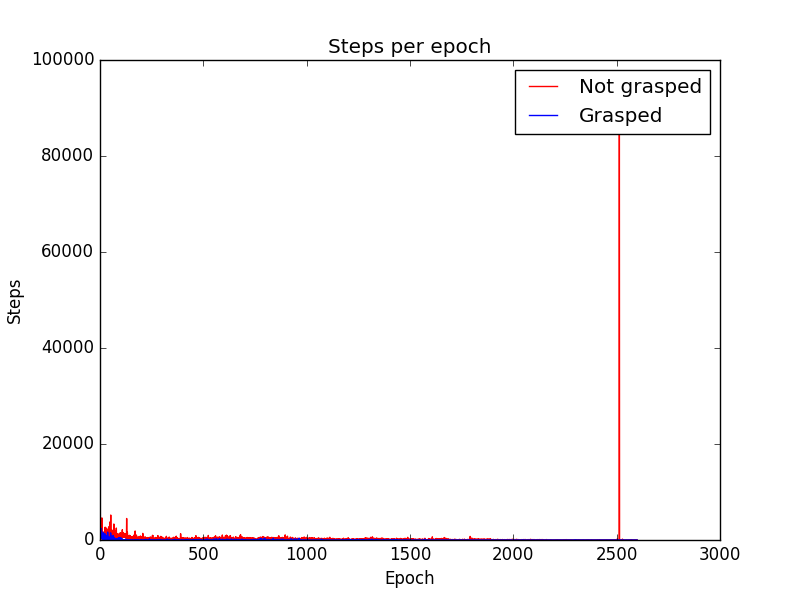
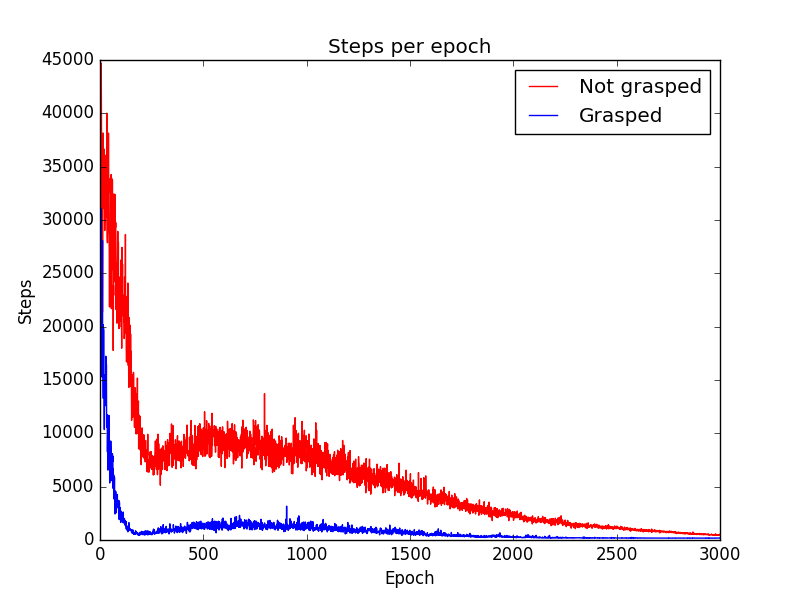
Convergence measurement (needs testing)

Changed region(s): [[0.0, 0.18, 0.9062, 0.9], [0.0312, 0.09, 0.125, 0.12]]

diff --git a/Simulation/main.py b/Simulation/main.py
@@ -6,6 +6,7 @@ import numpy as np
 import matplotlib.pyplot as plt
 import math
 import statistics
+import csv
 
 
 def updateWorld(agents, world, steps, epoch):
@@ -45,8 +46,6 @@ if __name__ == "__main__":
 
     # Some parameters
     epsilon = 0.9
-    startTau = 0.99
-    tau = startTau
     alpha = 0.1
     gamma = 0.9
 
@@ -68,33 +67,37 @@ if __name__ == "__main__":
         start = [(0, 0), (3, 3)]
         numberOfAgents = len(start)
 
-    # Create the agents
-    agents = [ag.Agent(start[i], rows, columns)
-              for i in range(numberOfAgents)]
-
     # Create the world and everything in it
     world = w.World(rows, columns, goals, walls, block, start)
     world.add_objects()
 
     # Simulation settings
-    runs = 1
-    trainingSteps = 200
-    testSteps = 100
+    runs = 25
+    trainingSteps = 3000
+    testSteps = 1
     epochs = trainingSteps + testSteps
 
-    steps = np.zeros((2, epochs))
     convergence = np.zeros((2, runs))
-    stdev = np.zeros((2, epochs))
-    testResults = np.zeros((2, testSteps))
 
     for run in range(runs):
         print(run)
-        for agent in agents:
-            agent.resetQ(world)
+
+        # Create the agents
+        agents = [ag.Agent(start[i], rows, columns)
+                  for i in range(numberOfAgents)]
+
+        stdev = np.zeros((2, epochs))
+        testResults = np.zeros((2, testSteps))
+        steps = np.zeros((2, epochs))
+
+        startTau = 0.99
+        tau = startTau
+        #for agent in agents:
+        #    agent.resetQ(world)
         for epoch in range(epochs):
             if epoch == 0:
                 print("Training phase")
-            if (epoch % 20 == 0):
+            if (epoch % 500 == 0):
                 print(epoch)
             if epoch == trainingSteps:
                 print("Testing phase")
@@ -136,7 +139,7 @@ if __name__ == "__main__":
 
                 # At convergence of std, store the epoch of convergence
                 if environment == "complex":
-                    if stdev[0][epoch] < 5 and convergence[0][run] == 0:
+                    if stdev[0][epoch] < 7 and convergence[0][run] == 0:
                         convergence[0][run] = epoch
                     if stdev[1][epoch] < 2 and convergence[1][run] == 0:
                         convergence[1][run] = epoch
@@ -145,8 +148,11 @@ if __name__ == "__main__":
         print("Agent: ", index)
         agent.print_policy(world)
 
-    print("Convergence at not grabbed:", convergence[0])
-    print("Convergence grabbed:", convergence[1])
+
+    with open("Convergence.csv", "w") as conv:
+        writer = csv.writer(conv, delimiter = '\t')
+        writer.writerow(["Not_grabbed\tGrabbed"])
+        writer.writerows(list(zip(convergence[0],convergence[1])))
 
     plt.figure(1)
     plt.plot(range(epochs), stdev[0], 'r-', range(epochs), stdev[1], 'b-')
@@ -155,7 +161,6 @@ if __name__ == "__main__":
     plt.ylabel('Standard deviation')
     plt.legend(['Not grasped', 'Grasped'])
     plt.draw()
-    plt.show()
     plt.savefig('Stdev.png')
 
     plt.figure(2)
@@ -213,3 +218,13 @@ if __name__ == "__main__":
     plt.legend(['Not grasped', 'Grasped'])
     plt.draw()
     plt.savefig('SingleQTest_smoothed.png')
+
+
+    plt.figure(6)
+    plt.plot(range(runs), convergence[0], 'r-', range(runs), convergence[1], 'b-')
+    plt.title('Number of epochs before convergence')
+    plt.xlabel('Run')
+    plt.ylabel('Number epochs')
+    plt.legend(['Not grasped', 'Grasped'])
+    plt.draw()
+    plt.savefig('Convergence.png')
